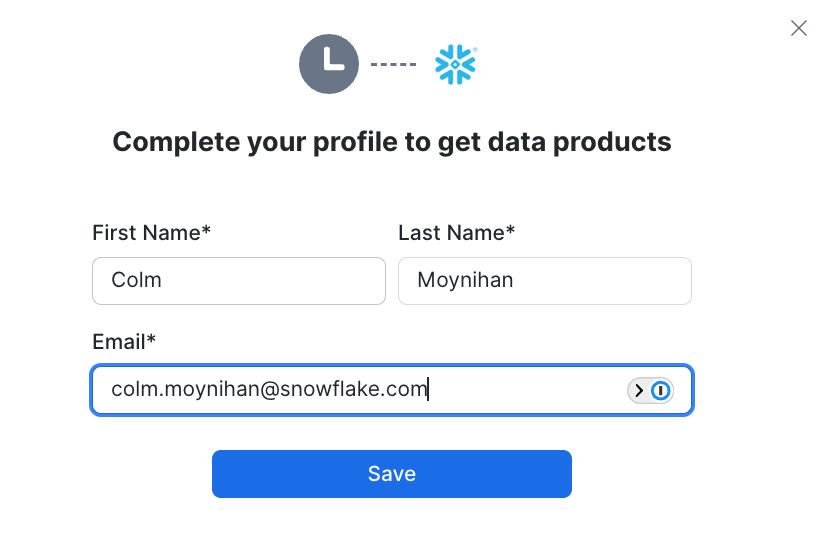
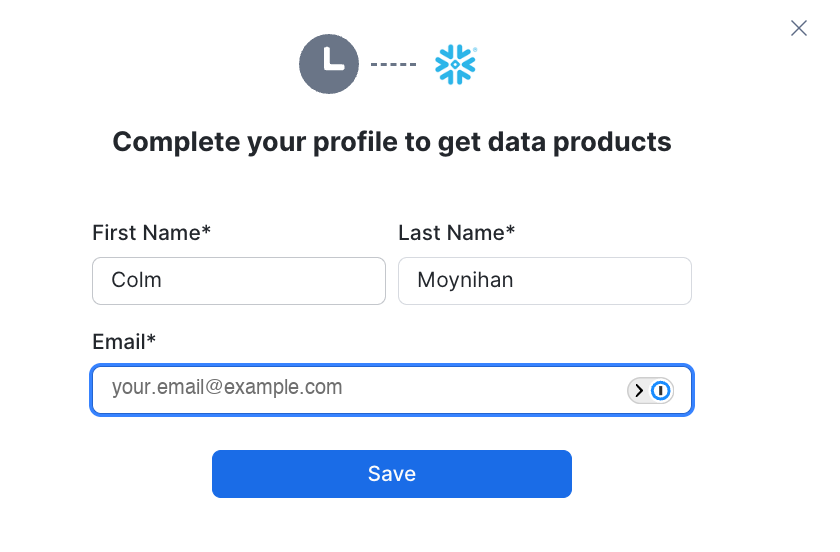
Address lab feedback: mask email, simplify CoWork prompts, warn on search build times
Generated with [Snowflake CoCo](https://docs.snowflake.com/en/user-guide/cortex-code/cortex-code)

Changed region(s): [[0.1238, 0.6775, 0.5262, 0.7391]]

diff --git a/step7_artifacts/step7_readme.md b/step7_artifacts/step7_readme.md
@@ -56,7 +56,7 @@ When you save an artifact:
 #### 1. Generate a Chart
 
 In CoWork, ask Holly:
-> "Plot the closing price of MSFT, AMZN, GOOGL, NVDA over the last 6 months"
+> Plot the closing price of MSFT, AMZN, GOOGL, NVDA over the last 6 months
 
 Holly uses the STOCK_PRICES tool (backed by the Interactive Table via HOLLY_IW) to generate a line chart with sub-second latency.
 
@@ -87,7 +87,7 @@ From any saved artifact, click **"Ask a follow-up"** to:
 - Drill into a specific time period
 - Compare different tickers
 - Change the chart type
-- Ask "what happened on this date?" about a specific data point
+- Ask *what happened on this date?* about a specific data point
 
 ### Artifact Behaviors
 
@@ -103,16 +103,16 @@ From any saved artifact, click **"Ask a follow-up"** to:
 
 Try saving these as artifacts for your daily workflow:
 
-1. **"Plot the closing price of MSFT, AMZN, GOOGL, NVDA over the last 3 months"**
+1. **Plot the closing price of MSFT, AMZN, GOOGL, NVDA over the last 3 months**
    → Daily monitoring chart
 
-2. **"Show a bar chart of the top 10 best performing stocks over the last month"**
+2. **Show a bar chart of the top 10 best performing stocks over the last month**
    → Weekly performance review
 
-3. **"Chart the EUR/USD exchange rate over the last 6 months"**
+3. **Chart the EUR/USD exchange rate over the last 6 months**
    → FX monitoring
 
-4. **"Compare the stock price of Microsoft and Google over the last 6 months"**
+4. **Compare the stock price of Microsoft and Google over the last 6 months**
    → Competitive analysis
 
 ---
@@ -157,7 +157,7 @@ sequenceDiagram
 **Method 1: Conversationally (recommended)**
 
 1. Open CoWork and ask Holly a question
-2. After Holly returns the result, say: *"Send me this report every Monday at 9am"*
+2. After Holly returns the result, say: *Send me this report every Monday at 9am*
 3. CoWork confirms the schedule and first delivery date
 
 **Method 2: From the Automations tab**
@@ -175,9 +175,9 @@ These map to the first four sample questions in Holly's agent definition. For ea
 
 **Automation 1: Tech Stock Tracker** (Daily)
 
-> Ask Holly: **"Plot the closing price of MSFT, AMZN, GOOGL, NVDA over the last 6 months"**
+> Ask Holly: **Plot the closing price of MSFT, AMZN, GOOGL, NVDA over the last 6 months**
 
-After the chart renders, say: *"Send me this report every weekday at 8am"*
+After the chart renders, say: *Send me this report every weekday at 8am*
 
 | Field | Value |
 |-------|-------|
@@ -189,9 +189,9 @@ After the chart renders, say: *"Send me this report every weekday at 8am"*
 
 **Automation 2: Top Performers Chart** (Weekly)
 
-> Ask Holly: **"Show a bar chart of the top 5 best performing stocks over the last 3 months"**
+> Ask Holly: **Show a bar chart of the top 5 best performing stocks over the last 3 months**
 
-After the chart renders, say: *"Send me this report every Monday at 9am"*
+After the chart renders, say: *Send me this report every Monday at 9am*
 
 | Field | Value |
 |-------|-------|
@@ -203,9 +203,9 @@ After the chart renders, say: *"Send me this report every Monday at 9am"*
 
 **Automation 3: NVIDIA Price Check** (Daily)
 
-> Ask Holly: **"What is the latest share price of NVIDIA?"**
+> Ask Holly: **What is the latest share price of NVIDIA?**
 
-After the result, say: *"Send me this report every weekday at 7am"*
+After the result, say: *Send me this report every weekday at 7am*
 
 | Field | Value |
 |-------|-------|
@@ -217,9 +217,9 @@ After the result, say: *"Send me this report every weekday at 7am"*
 
 **Automation 4: Microsoft vs Google Comparison** (Weekly)
 
-> Ask Holly: **"Compare the stock price of Microsoft and Google over the last 6 months"**
+> Ask Holly: **Compare the stock price of Microsoft and Google over the last 6 months**
 
-After the chart renders, say: *"Send me this report every Monday at 8am"*
+After the chart renders, say: *Send me this report every Monday at 8am*
 
 | Field | Value |
 |-------|-------|
@@ -235,11 +235,11 @@ You can manage automations conversationally in CoWork or from the **Automations 
 
 | Action | Conversational | Automations Tab |
 |--------|---------------|-----------------|
-| List automations | *"What automations do I have?"* | View the list directly |
-| Change schedule | *"Change my Monday report to 7am instead"* | Edit the automation |
-| Pause | *"Pause the NVIDIA Price Check report"* | Toggle pause |
-| Resume | *"Resume the NVIDIA Price Check report"* | Toggle resume |
-| Delete | *"Delete my weekly top performers report"* | Delete button |
+| List automations | *What automations do I have?* | View the list directly |
+| Change schedule | *Change my Monday report to 7am instead* | Edit the automation |
+| Pause | *Pause the NVIDIA Price Check report* | Toggle pause |
+| Resume | *Resume the NVIDIA Price Check report* | Toggle resume |
+| Delete | *Delete my weekly top performers report* | Delete button |
 
 ### Key Points
 
@@ -271,9 +271,9 @@ You can manage automations conversationally in CoWork or from the **Automations 
 
 ## Verify It Worked
 
-1. Open **Snowflake CoWork** and ask Holly: "What is the latest share price of NVIDIA?"
+1. Open **Snowflake CoWork** and ask Holly: What is the latest share price of NVIDIA?
 2. After Holly responds, click **Save as artifact** — confirm it appears in your Artifacts list
-3. Create an automation by saying: "Send me this report every Monday at 9am" — confirm the schedule is created
+3. Create an automation by saying: Send me this report every Monday at 9am — confirm the schedule is created
 4. Check the **Automations** tab in the left navigation to see your scheduled automation
 
 ## Next Step

diff --git a/step8_cortex_search/step8_readme.md b/step8_cortex_search/step8_readme.md
@@ -50,6 +50,8 @@ Run `create_cortex_search.sql`. The script:
 4. Creates two Cortex Search Services
 5. Scales back down to MEDIUM
 
+> **Heads up — expect a wait.** Each `CREATE CORTEX SEARCH SERVICE` statement builds the full vector index before it returns. In testing, `EDGAR_FILINGS_SEARCH` took **~3 minutes** and `PUBLIC_TRANSCRIPTS_SEARCH` took **~7 minutes**. This is normal — don't cancel or re-run the statements while they're in progress.
+
 ### Search Services Created
 
 | Service | Schema | Search Column | Attributes | Embedding Model | Rows |
